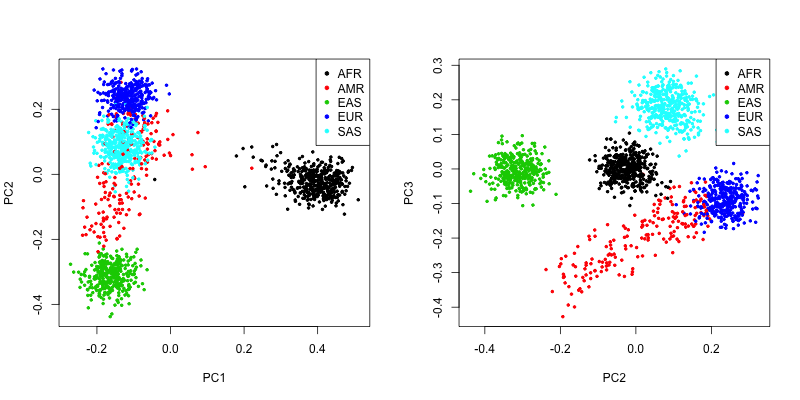
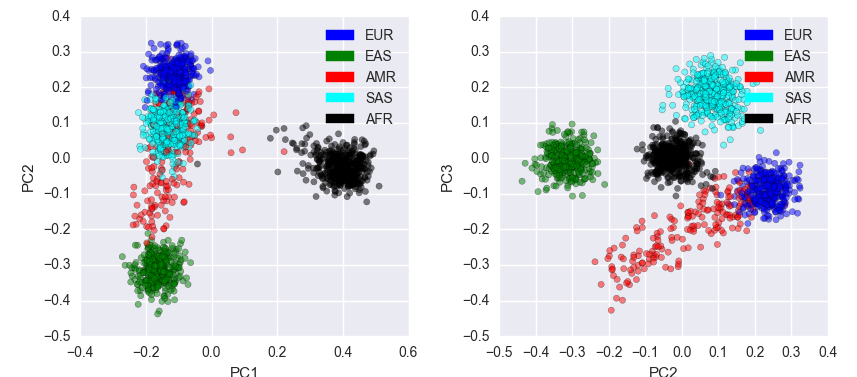
Added matplotlib plots for all plots in tutorial and replaced R versions, addressed github issue 1237

diff --git a/python/hail/keytable.py b/python/hail/keytable.py
@@ -534,6 +534,18 @@ class KeyTable(object):
         except Py4JJavaError as e:
             self._raise_py4j_exception(e)
 
+    def to_pandas(self, expand = True, flatten = True):
+        """Converts this KeyTable into a Pandas DataFrame.
+
+        :param bool expand: If true, expand_types before converting to
+          Pandas DataFrame.
+        :param bool flatten: If true, flatten before converting to Pandas
+          DataFrame.  If both are true, flatten is run after expand so
+          that expanded types are flattened.
+        :return: pandas.DataFrame
+        """
+        return self.to_dataframe(expand, flatten).toPandas()
+
     def export_mongodb(self, mode='append'):
         (scala_package_object(self.hc.hail.driver)
          .exportMongoDB(self.hc.jsql_context, self.jkt, mode))

diff --git a/docs/tutorial/Tutorial.md b/docs/tutorial/Tutorial.md
@@ -49,6 +49,14 @@ In this window, enter two commands:
 
 If there is no error, you're ready to start using Hail! Otherwise, make sure that the `export` variables are correctly set and appropriate versions of all dependencies are installed. If this step triggers a `Exception in thread "main" java.net.BindException`, see [here](https://hail.is/faq.html#how-do-i-fix-exception-in-thread-main-java.net.bindexception-cant-assign-requested-address-...) for a fix.
 
+Before we start using Hail, please import the following python libraries for use throughout the tutorial:
+    >>> import pandas as pd
+    >>> import matplotlib.pyplot as plt
+    >>> import matplotlib.patches as mpatches
+    >>> import numpy as np
+    >>> import seaborn
+    >>> from math import log, isnan
+
 ## Import data
 
 For cleanliness, let's first assign the names of data files to Python variables:
@@ -180,6 +188,7 @@ In this code, we first construct a expression `filter_condition` that evaluates 
 Now the call rate is about 95%, so nearly 4% of genotypes failed the filter (filtering out a genotype is equivalent to setting the genotype call to missing).
 
 <pre class="tutorial output" style="color: red">
+  nGenotypes      27,786,135
   nSamples             2,535
   nVariants           10,961
   nCalled         26,404,807
@@ -233,8 +242,8 @@ Let's remove the samples that are outliers in the plots above (where cutoffs are
     >>>     .export_samples('included_samples.txt', 's.id'))
     >>> vds_gAB_sCR_sGQ = vds_gAB.filter_samples_list('included_samples.txt')
     >>>
-    >>> print 'before filter: %d samples' % vds_gAB.num_samples()
-    >>> print 'after filter: %d samples' % vds_gAB_sCR_sGQ.num_samples()
+    >>> print('before filter: %d samples' % vds_gAB.num_samples())
+    >>> print('after filter: %d samples' % vds_gAB_sCR_sGQ.num_samples())
     >>> method_1_kept_ids = vds_gAB_sCR_sGQ.sample_ids()
     
 **Method 2:** Annotate and filter `vds_gAB` using the exported sample QC metrics:
@@ -244,8 +253,8 @@ Let's remove the samples that are outliers in the plots above (where cutoffs are
     >>>                             root='sa.qc', config=TextTableConfig(impute=True))
     >>>     .filter_samples_expr('sa.qc.callRate >= 0.97 && sa.qc.gqMean >= 20'))
     >>>
-    >>> print 'before filter: %d samples' % filtered_vds.num_samples()
-    >>> print 'after filter: %d samples' % vds_gAB_sCR_sGQ.num_samples()
+    >>> print('before filter: %d samples' % vds_gAB.num_samples())
+    >>> print('after filter: %d samples' % vds_gAB_sCR_sGQ.num_samples())
     >>> method_2_kept_ids = vds_gAB_sCR_sGQ.sample_ids()
     
 Let's make sure these two methods give us the same samples:
@@ -338,14 +347,12 @@ Variant annotation schema:
 }
 </pre>
  
-************************COMBINE FILTERS*********************
 
 We can now filter variants based on HWE p-values with respect to each population:
 
     >>> hwe_filter_expression = "&&\n".join(['va.hweByPop.hwe' + pop + '.pHWE > 1e-6 ' for pop in populations])
-    >>> vds_gAD_sCR_sGQ_vGQ_vHWE = vds_gAB_sCR_sGQ.filter_variants_expr(hwe_filter_expression)
-    >>>                                           .filter_variants_expr('va.qc.gqMean >= 20')
-    >>> vds_gAD_sCR_sGQ_vGQ_vHWE.count()
+    >>> vds_gAD_sCR_sGQ_vHWE = vds_gAB_sCR_sGQ.filter_variants_expr(hwe_filter_expression)
+    >>> vds_gAD_sCR_sGQ_vHWE.count()
 
 We see from `count` that by calculating HWE p-values in each population separately, we only filter out 826 variants (before it would have been 7098 variants!).
 
@@ -354,12 +361,11 @@ Out[49]: {u'nSamples': 1646, u'nVariants': 10135L, u'nGenotypes': 16682210L}
 </pre>
 
 
-*******
 Lastly we use the `filter_variants expr`method to keep variants with a mean GQ greater than or equal to 20.
 
-    >>> final_filtered_vds = hwe_filtered_vds.filter_variants_expr('va.qc.gqMean >= 20')
-    >>> final_filtered_vds.count()
-********
+    >>> vds_gAD_sCR_sGQ_vHWE_vGQ = hwe_filtered_vds.filter_variants_expr('va.qc.gqMean >= 20')
+    >>> vds_gAD_sCR_sGQ_vHWE_vGQ.count()
+
 
 <pre class="tutorial output" style="color: red">
 {u'nSamples': 1646, u'nVariants': 9949L, u'nGenotypes': 16376054L}
@@ -377,15 +383,14 @@ There are 273 many X chromosome variants are in the original dataset:
   
 However, after variant QC, the number of X chromosome variants drops to 10, not enough for a sex check!
 
-    >>> vds_gAD_sCR_sGQ_vGQ_vHWE.filter_variants_expr('v.contig == "X"').num_variants()
+    >>> vds_gAD_sCR_sGQ_vHWE_vGQ.filter_variants_expr('v.contig == "X"').num_variants()
 
 Oops! HWE statistics on the X chromosome should ignore male samples, since males have only two possible genotypes (HomRef or HomVar). We're going to have to go back to `vds_gAB_sCR_sGQ` and modify how we calculate HWE. We use a conditional expression so that variants on the X chromosome will only include female samples in the calculation. We can also use the same `hwe_filter_expression` from above.
 
-**************************COMBINE FILTERS**********************
 
     >>> sex_aware_hwe_exprs = [
     >>> '''va.hweByPop.hwe{pop} = 
-    >>> if (v.contig.isAutsomal)
+    >>> if (v.isAutosomal)
     >>>  gs.filter(g => sa.pheno.SuperPopulation == "{pop}").hardyWeinberg()
     >>> else
     >>>   gs.filter(g => sa.pheno.SuperPopulation == "{pop}" && sa.pheno.isFemale).hardyWeinberg()'''.format(pop = p) for p in populations]
@@ -396,8 +401,8 @@ Oops! HWE statistics on the X chromosome should ignore male samples, since males
     >>>     .filter_variants_expr('va.qc.gqMean >= 20')
     >>>     .persist())
     >>>
-    >>> print 'total variants = %s' % vds_filtered.num_variants()
-    >>> print 'X chromosome variants = %s' % vds_filtered.filter_variants_expr('v.contig == "X"').num_variants()
+    >>> print('total variants = %s' % vds_filtered.num_variants())
+    >>> print('X chromosome variants = %s' % vds_filtered.filter_variants_expr('v.contig == "X"').num_variants())
   
 For sex check, we first use the `impute_sex` method with a minimum minor allele frequency threshold `maf_threshold` argument of 0.05 to determine the genetic sex of a sample based on the inbreeding coefficient. `impute_sex` adds the Boolean sample annotation `sa.imputesex.isFemale` and we then create a new Boolean sample annotation `sa.sexcheck` which indicates whether the imputed sex `sa.imputesex.isFemale` is the same as the reported sex `sa.pheno.isFemale`.
 
@@ -408,8 +413,8 @@ For sex check, we first use the `impute_sex` method with a minimum minor allele 
     >>> total_samples = vds_sex_check.num_samples()
     >>> sex_check_passes = vds_sex_check.filter_samples_expr('sa.sexcheck').num_samples()
     >>>
-    >>> print 'total samples: %s' % total_samples
-    >>> print 'sex_check_passes: %s' % sex_check_passes
+    >>> print('total samples: %s' % total_samples)
+    >>> print('sex_check_passes: %s' % sex_check_passes)
     
 We see that the genetic sex does not match the reported sex for 567 samples, an extremely high sex check failure rate! To figure out why this happened, we can use a Hail expression to look at the values that `sa.sexcheck` takes.
 
@@ -420,21 +425,27 @@ We see that the genetic sex does not match the reported sex for 567 samples, an 
 Aha! While we only have 3 'false' sex-check values, we have 564 missing sex-check values. Since `pheno.isFemale` is never missing (see the sample annotations file), this means that there were 564 samples that could not be imputed as male or female. This is because in our small dataset the number of variants on the X chromosome (about 200) is not sufficient to impute sex reliably. Let's instead keep those samples with missing sex-check using:
  
     >>> vds_QCed = vds_sex_check.filter_samples_expr('sa.sexcheck || isMissing(sa.sexcheck)').persist()
-    >>> print 'samples after filter: %s' % vds_QCed.num_samples()
+    >>> print('samples after filter: %s' % vds_QCed.num_samples())
 
 ## PCA
 
 To account for population stratification in association testing, we use principal component analysis to compute features that are proxies for genetic similarity. PCA is typically performed on variants in linkage equilibrium. The text file *purcell5k.interval_list* contains a list of such independent common variants.
 
-To calculate principal components, we first use the `filter_variants_intervals` method to only keep SNPs from this list. Next, we use the `pca` method to calculate the first 10 principal components (10 is the default number). The results are stored as sample annotations with root given by the `scores` parameter. Lastly, we export the sample annotations to a text file.
+To calculate principal components, we first use the `filter_variants_intervals` method to only keep SNPs from this list. Next, we use the `pca` method to calculate the first 10 principal components (10 is the default number). The results are stored as sample annotations with root given by the `scores` parameter. 
 
     >>> vds_pca = (vds_QCed.filter_variants_intervals('purcell5k.interval_list')
     >>>     .pca(scores='sa.pca'))
-    >>> vds_pca.export_samples('pcaPlusPopulation.tsv', 
-    >>>     'Sample=s, SuperPopulation=sa.pheno.SuperPopulation,'
-    >>>     'Population=sa.pheno.Population, sa.pca.*')
+    
+We can then make a python plot of the samples in PC space colored by population group:
 
-Here are some R plots of samples in PC space colored by population group:
+    >>> pca_table = vds_pca.samples_keytable().to_pandas()
+    >>> colors = {'AFR': 'black', 'AMR': 'red', 'EAS': 'green', 'EUR': 'blue', 'SAS': 'cyan'}
+    >>> plt.scatter(pca_table["sa.pca.PC1"], pca_table["sa.pca.PC2"], c = pca_table["sa.pheno.SuperPopulation"].map(colors), alpha = .5)
+    >>> plt.xlabel("PC1")
+    >>> plt.ylabel("PC2")
+    >>> legend_entries = [mpatches.Patch(color= c, label=pheno) for pheno, c in colors.items()]
+    >>> plt.legend(handles=legend_entries)
+    >>> plt.show()
 
 <img src="test.pcaPlot.png">
 
@@ -444,15 +455,33 @@ Now that we have a clean dataset with principal components, let's test for assoc
 
 #### Linear regression with covariates
 
-Let's run linear regression on `vds_QCed`. First, we will filter out variants with a allele frequency less than 5% or greater than 95%. Next, we use the `linreg` method, specifying the response variable `y` to be the sample annotation for CaffeineConsumption `sa.pheno.CaffeineConsumption`. We also use 4 sample covariates `sa.pca.PC1`, `sa.pca.PC2`, `sa.pca.PC3`, `sa.pheno.isFemale` in addition to the intercept. The results of linear regression are stored as variant annotations and can be accessed with the root name `va.linreg`. Lastly we export these results to a text file and make a Q-Q plot in R.
+Let's run linear regression on `vds_QCed`. First, we will filter out variants with a allele frequency less than 5% or greater than 95%. Next, we use the `linreg` method, specifying the response variable `y` to be the sample annotation for CaffeineConsumption `sa.pheno.CaffeineConsumption`. We also use 4 sample covariates `sa.pca.PC1`, `sa.pca.PC2`, `sa.pca.PC3`, `sa.pheno.isFemale` in addition to the intercept. The results of linear regression are stored as variant annotations and can be accessed with the root name `va.linreg`. 
 
     >>> vds_gwas = (vds_QCed
     >>>     .filter_variants_expr('va.qc.AF > 0.05 && va.qc.AF < 0.95')
-    >>>     .annotate_samples_vds(vds_pca, code='sa.pca = vds.pca'))
-    >>> (vds_gwas
+    >>>     .annotate_samples_vds(vds_pca, code='sa.pca = vds.pca')
     >>>     .linreg('sa.pheno.CaffeineConsumption', 
-    >>>             covariates='sa.pca.PC1, sa.pca.PC2, sa.pca.PC3, sa.pheno.isFemale')
-    >>>     .export_variants('linreg.tsv', 'Variant=v, va.linreg.*'))
+    >>>             covariates='sa.pca.PC1, sa.pca.PC2, sa.pca.PC3, sa.pheno.isFemale'))
+
+To examine this, we can create a Q-Q plot. We are going to be doing this a couple of times, so let's first define a function for this purpose.
+    
+    >>> def qqplot(pvals, xMax, yMax):
+    >>>     spvals = sorted(filter(lambda x: not(isnan(x)), pvals))
+    >>>     exp = [-1 * log(i / len(spvals), 10) for i in np.arange(1, len(spvals) + 1, 1)]
+    >>>     obs = [-1 * log(p, 10) for p in spvals]
+    >>>     plt.scatter(exp, obs)
+    >>>     plt.plot(np.arange(0, max(xMax, yMax)), c="red")
+    >>>     plt.xlabel("exp")
+    >>>     plt.ylabel("obs")
+    >>>     plt.xlim(0, xMax)
+    >>>     plt.ylim(0, yMax)
+    >>>     plt.show() 
+    
+With this new function, we can make a Q-Q plot for our linear regression by simply doing:
+
+
+    >>> linreg_pvals = sorted(vds_gwas.variants_keytable().to_pandas()["va.linreg.pval"])
+    >>> qqplot(linreg_pvals, 5, 6)
     
 <img src="test.linreg.qq.png">
 
@@ -460,16 +489,20 @@ Let's run linear regression on `vds_QCed`. First, we will filter out variants wi
 
 We start from our `vds_gwas`. The logistic regression method also takes a test type argument. We will use the Wald test.
 
-    >>> (vds_gwas
+    >>> vds_gwas = (vds_gwas
     >>>     .logreg(test='wald', y='sa.pheno.PurpleHair',
-    >>>             covariates='sa.pca.PC1, sa.pca.PC2, sa.pca.PC3, sa.pheno.isFemale')
-    >>>     .export_variants('logreg.tsv', 'Variant=v, PVAL = va.logreg.wald.pval'))
+    >>>             covariates='sa.pca.PC1, sa.pca.PC2, sa.pca.PC3, sa.pheno.isFemale'))
+    
+Once again, we can use our Q-Q plot function:
+
+    >>> logreg_pvals = vds_gwas.variants_keytable().to_pandas()["va.logreg.wald.pval"]
+    >>> qqplot(logreg_pvals, 5, 6)
 
 <img src="test.logreg.qq.png">
 
 #### Fisher's Exact Test for Rare Variants
 
-We'll start with `vds_QCed` here (our `vds_gwas` isn't appropriate for rare variant tests because we filtered them all out!). This time we filter to rare variants (allele frequency less than 5% or greater than 95%). Next we annotate variants with 4 metrics about the aggregate statistics of the samples at each position. These new variant annotations can be used as inputs to the `fet` (Fisher Exact Test) function which takes 4 integers representing a 2x2 contingency table. We define the variant annotation `va.fet` to be the output of the [`fet`](reference.html#fet) function. Finally, we export the results to a text file and make a Q-Q plot in R. 
+We'll start with `vds_QCed` here (our `vds_gwas` isn't appropriate for rare variant tests because we filtered them all out!). This time we filter to rare variants (allele frequency less than 5% or greater than 95%). Next we annotate variants with 4 metrics about the aggregate statistics of the samples at each position. These new variant annotations can be used as inputs to the `fet` (Fisher Exact Test) function which takes 4 integers representing a 2x2 contingency table. We define the variant annotation `va.fet` to be the output of the [`fet`](reference.html#fet) function. All of this is saved to vds_fet, from which we use a variants keytable to extract p-values. 
 
     >>> rare_variant_annotations = [
     >>>     '''va.minorCase = 
@@ -485,13 +518,15 @@ We'll start with `vds_QCed` here (our `vds_gwas` isn't appropriate for rare vari
     >>>         gs.filter(g => !sa.pheno.PurpleHair && g.isHet).count() +
     >>>         2 * gs.filter(g => !sa.pheno.PurpleHair && g.isHomRef).count()''' ]
     >>>
-    >>> (vds_QCed
+    >>> vds_fet = (vds_QCed
     >>>     .filter_variants_expr('va.qc.AF <= 0.05 || va.qc.AF >= 0.95')
     >>>     .annotate_variants_expr(rare_variant_annotations)
     >>>     .annotate_variants_expr('''va.fet = 
     >>>                                 fet(va.minorCase.toInt, va.minorControl.toInt,
-    >>>                                     va.majorCase.toInt, va.majorControl.toInt)''')
-    >>>     .export_variants('fisherExactTest.tsv', 'Variant = v, va.fet.*'))
+    >>>                                     va.majorCase.toInt, va.majorControl.toInt)'''))
+    >>>
+    >>> fet_pvals = vds_fet.variants_keytable().to_pandas()["va.fet.pValue"]
+    >>> qqplot(fet_pvals, 5, 6)
 
 <img src="test.fet.qq.png">
 
